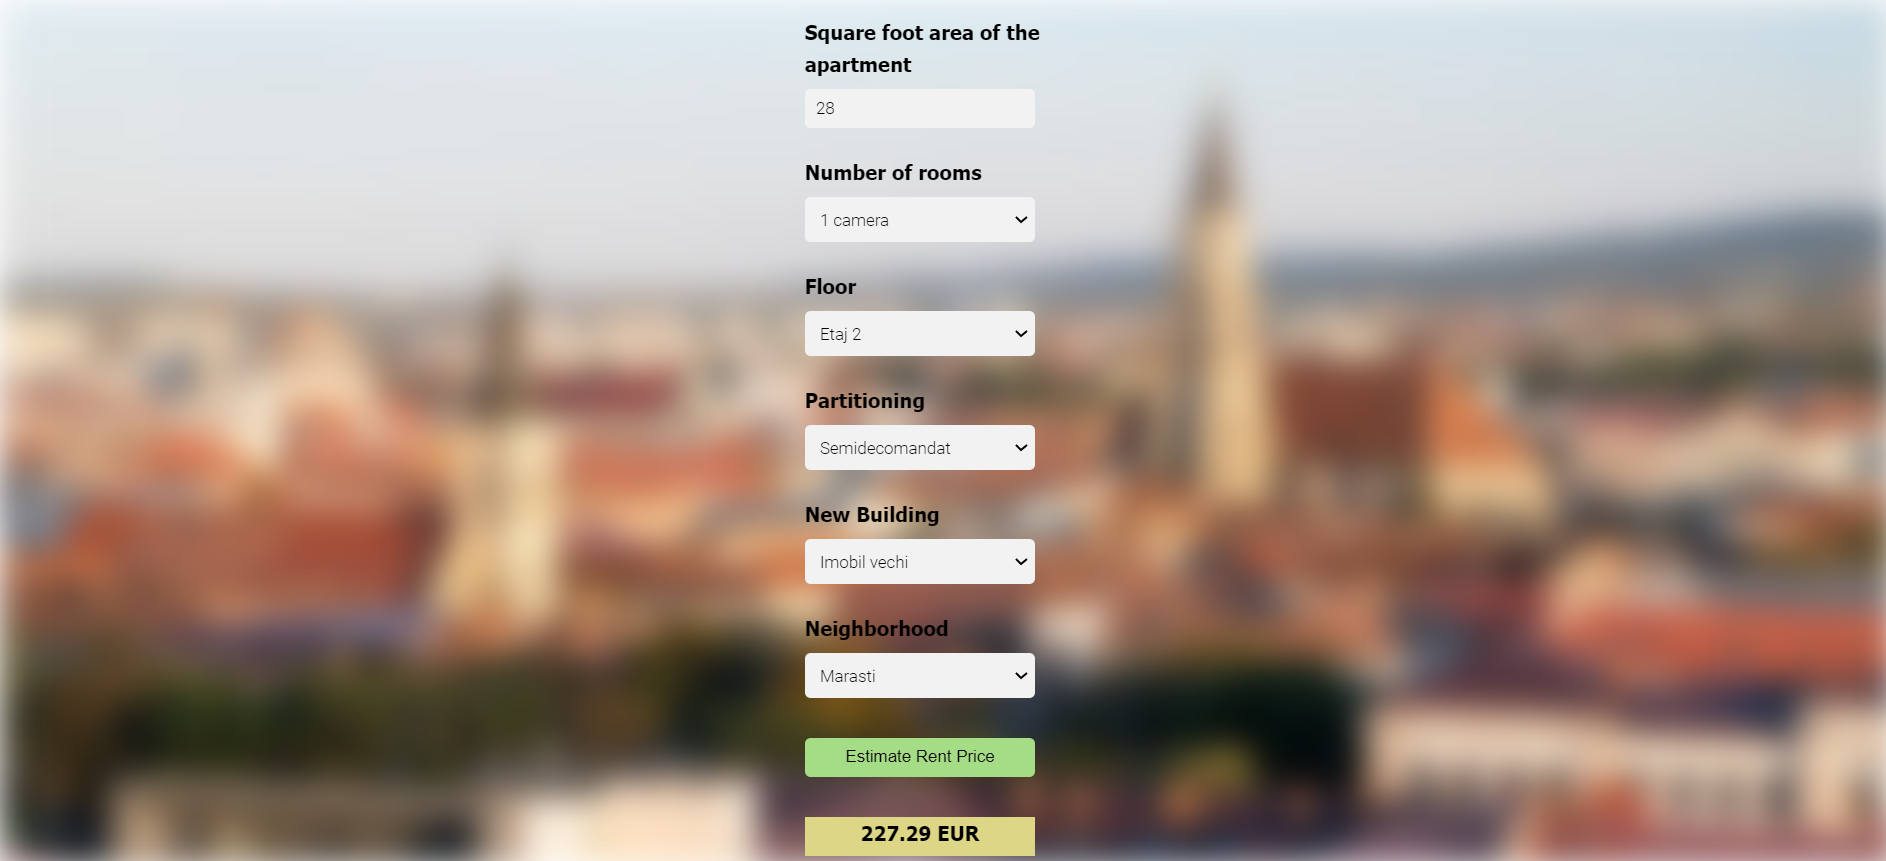
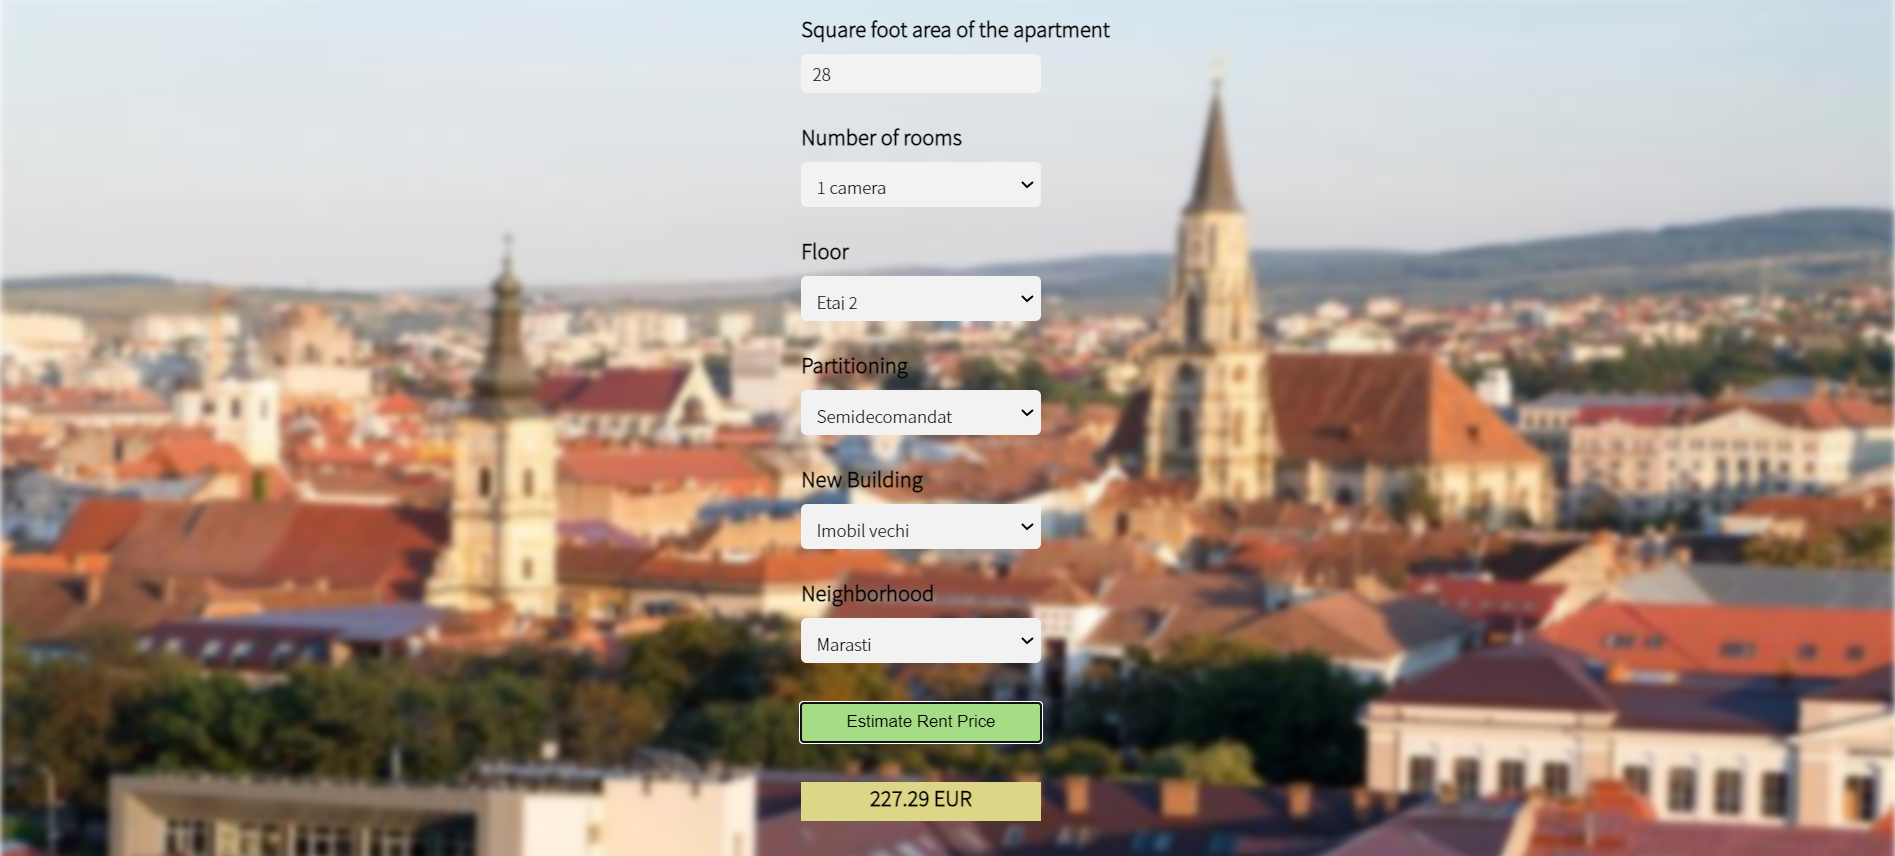
Finishing touches

diff --git a/Data Science Projects/Rent price prediction Cluj Napoca/client/app.html b/Data Science Projects/Rent price prediction Cluj Napoca/client/app.html
@@ -1,55 +1,59 @@
 <!DOCTYPE html>
 <html>
 <head>
-    <title>Cluj Napoca Apartment Rent Price Prediction</title>
-    <script src="https://ajax.googleapis.com/ajax/libs/jquery/3.4.1/jquery.min.js"></script>
-    <script src="app.js"></script>
+  <title>Cluj Napoca Apartment Rent Price Prediction</title>
+  <script src="https://ajax.googleapis.com/ajax/libs/jquery/3.4.1/jquery.min.js"></script>
+  <script src="app.js"></script>
 	<link rel="stylesheet" href="app.css">
 </head>
 <body>
-<div class="img"></div>
-<form class="form">
-        <h2>Square foot area of the apartment</h2>
-    <input class="space"  type="email" id="uiSqft" class="floatLabel" name="Squareft" value="0">
-	</form>
-<form class="form">
-  <h2>Number of rooms</h2>
-  <div>
-  <select class="rooms" name="" id="uiRooms">
-  <option value="" disabled="disabled" selected="selected">Choose the number of rooms</option>
-  <option>1 camera</option>
+  <div class="img"></div>
+  <form class="form">
+          <h2>Square foot area of the apartment</h2>
+      <input class="space"  type="email" id="uiSqft" class="floatLabel" name="Squareft" value="0">
+  </form>
+  <form class="form">
+    <h2>Number of rooms</h2>
+    <div>
+    <select class="rooms" name="" id="uiRooms">
+      <option value="" disabled="disabled" selected="selected">Choose the number of rooms</option>
+      <option>1 camera</option>
       <option>2 camere</option>
-  </select>
-  <h2>Floor</h2>
-  <div>
-  <select class="floor" name="" id="uiFloor">
-  <option value="" disabled="disabled" selected="selected">Choose the floor</option>
-  <option>Demisol</option>
+    </select>
+    </div>
+    <h2>Floor</h2>
+    <div>
+    <select class="floor" name="" id="uiFloor">
+      <option value="" disabled="disabled" selected="selected">Choose the floor</option>
+      <option>Demisol</option>
       <option>Etaj 1</option>
-  </select>
-  <h2>Partitioning</h2>
-  <div>
-  <select class="partitioning" name="" id="uiPartitioning">
-  <option value="" disabled="disabled" selected="selected">Choose the type of partitioning</option>
-  <option>Decomandat</option>
+    </select>
+    </div>
+    <h2>Partitioning</h2>
+    <div>
+    <select class="partitioning" name="" id="uiPartitioning">
+      <option value="" disabled="disabled" selected="selected">Choose the type of partitioning</option>
+      <option>Decomandat</option>
       <option>Semidecomandat</option>
-  </select>
-  <h2>New Building</h2>
-  <div>
-  <select class="new_building" name="" id="uiNewBuilding">
-  <option value="" disabled="disabled" selected="selected">Choose the type of the building</option>
-  <option>Imobil nou</option>
+    </select>
+    </div>
+    <h2>New Building</h2>
+    <div>
+    <select class="new_building" name="" id="uiNewBuilding">
+      <option value="" disabled="disabled" selected="selected">Choose the type of the building</option>
+      <option>Imobil nou</option>
       <option>Imobil vechi</option>
-  </select>
-  <h2>Neighborhood</h2>
-	<div>
-  <select class="neighborhood" name="" id="uiNeighborhoods">
-    <option value="" disabled="disabled" selected="selected">Choose a Neighborhood</option>
-		<option>Manastur</option>
-        <option>Marasti</option>
-  </select>
-</div>
-	<button class="submit" onclick="onClickedEstimateRentPrice()" type="button">Estimate Rent Price</button>
-	<div id="uiEstimatedRentPrice" class="result">	<h2></h2> </div>
+    </select>
+    </div>
+    <h2>Neighborhood</h2>
+  	<div>
+    <select class="neighborhood" name="" id="uiNeighborhoods">
+      <option value="" disabled="disabled" selected="selected">Choose a Neighborhood</option>
+  		<option>Manastur</option>
+          <option>Marasti</option>
+    </select>
+    </div>
+  	<button class="submit" onclick="onClickedEstimateRentPrice()" type="button">Estimate Rent Price</button>
+  	<div id="uiEstimatedRentPrice" class="result"></div>
 </body>
 </html>

diff --git a/Data Science Projects/Rent price prediction Cluj Napoca/client/app.css b/Data Science Projects/Rent price prediction Cluj Napoca/client/app.css
@@ -1,57 +1,12 @@
-@import url(https://fonts.googleapis.com/css?family=Roboto:300);
-
-.switch-field {
-	display: flex;
-	margin-bottom: 36px;
-	overflow: hidden;
-}
-
-.switch-field input {
-	position: absolute !important;
-	clip: rect(0, 0, 0, 0);
-	height: 1px;
-	width: 1px;
-	border: 0;
-	overflow: hidden;
-}
-
-.switch-field label {
-	background-color: #e4e4e4;
-	color: rgba(0, 0, 0, 0.6);
-	font-size: 14px;
-	line-height: 1;
-	text-align: center;
-	padding: 8px 16px;
-	margin-right: -1px;
-	border: 1px solid rgba(0, 0, 0, 0.2);
-	box-shadow: inset 0 1px 3px rgba(0, 0, 0, 0.3), 0 1px rgba(255, 255, 255, 0.1);
-	transition: all 0.1s ease-in-out;
-}
-
-.switch-field label:hover {
-	cursor: pointer;
-}
-
-.switch-field input:checked + label {
-	background-color: #a5dc86;
-	box-shadow: none;
-}
-
-.switch-field label:first-of-type {
-	border-radius: 4px 0 0 4px;
-}
-
-.switch-field label:last-of-type {
-	border-radius: 0 4px 4px 0;
-}
+@import url(https://fonts.googleapis.com/css2?family=Noto+Sans+JP:wght@300&display=swap);
 
 .form {
-	max-width: 270px;
-	font-family: "Lucida Grande", Tahoma, Verdana, sans-serif;
+	max-width: 280px;
+	font-family: "Noto Sans JP", Tahoma, Verdana, sans-serif;
 	font-weight: normal;
 	line-height: 1.625;
 	margin: 8px auto;
-	padding-left: 16px;
+	padding-left: 20px;
 	z-index: 2;
 }
 
@@ -60,7 +15,7 @@ h2 {
 	margin-bottom: 8px;
 }
 .space{
-  font-family: "Roboto", sans-serif;
+  font-family: "Noto Sans JP", sans-serif;
   outline: 0;
   background: #f2f2f2;
   width: 76%;
@@ -74,7 +29,7 @@ h2 {
 }
 
 .rooms{
-  font-family: "Roboto", sans-serif;
+  font-family: "Noto Sans JP", sans-serif;
   outline: 0;
   background: #f2f2f2;
   width: 76%;
@@ -88,7 +43,7 @@ h2 {
 }
 
 .floor{
-  font-family: "Roboto", sans-serif;
+  font-family: "Noto Sans JP", sans-serif;
   outline: 0;
   background: #f2f2f2;
   width: 76%;
@@ -102,7 +57,7 @@ h2 {
 }
 
 .partitioning{
-  font-family: "Roboto", sans-serif;
+  font-family: "Noto Sans JP", sans-serif;
   outline: 0;
   background: #f2f2f2;
   width: 76%;
@@ -116,7 +71,7 @@ h2 {
 }
 
 .new_building{
-  font-family: "Roboto", sans-serif;
+  font-family: "Noto Sans JP", sans-serif;
   outline: 0;
   background: #f2f2f2;
   width: 76%;
@@ -130,7 +85,7 @@ h2 {
 }
 
 .neighborhood{
-  font-family: "Roboto", sans-serif;
+  font-family: "Noto Sans JP", sans-serif;
   outline: 0;
   background: #f2f2f2;
   width: 76%;
@@ -175,7 +130,7 @@ h2 {
   -moz-filter: blur(5px);
   -o-filter: blur(5px);
   -ms-filter: blur(5px);
-  filter: blur(15px);
+  filter: blur(3px);
   position: fixed;
   width: 100%;
   height: 100%;

diff --git a/Data Science Projects/Rent price prediction Cluj Napoca/server/server.py b/Data Science Projects/Rent price prediction Cluj Napoca/server/server.py
@@ -74,4 +74,4 @@ def predict_rent_price():
 if __name__ == "__main__":
     print('Starting Python Flask Server For Rent Price Prediction ... ')
     util.load_saved_artifacts()
-    app.run()
+    app.run(debug=True)
